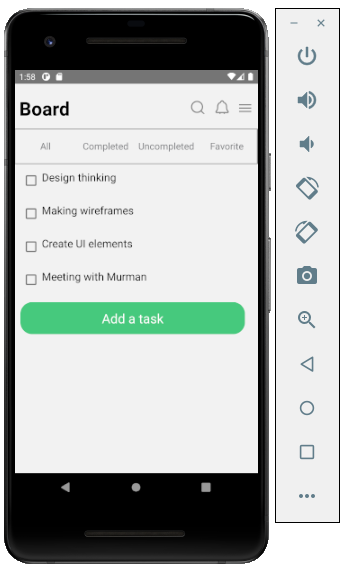
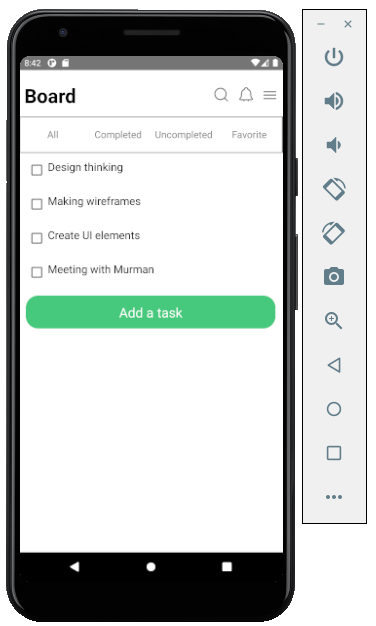
add datepicker

diff --git a/src/views/Task/Task.js b/src/views/Task/Task.js
@@ -1,13 +1,15 @@
-import React from 'react';
+import React, { useState } from 'react';
 import { Text, View, ScrollView, TouchableOpacity, Button } from 'react-native';
 import { Subheading, TextInput } from 'react-native-paper';
-//import DateTimePicker from '@react-native-community/datetimepicker';
 import Ionicons from 'react-native-vector-icons/Ionicons';
 import styles from '../../styles/styles';
 import useTask from './hooks/useTask';
+import DateTimePickerModal from "react-native-modal-datetime-picker";
+import DropDownList from '../../components/DropDownList';
 
 const Task = ({navigation}) => {
   const { onCreateTask, inputs} = useTask(navigation);
+  const [deadLine, setDeadLine] = useState(new Date().toISOString().substring(0, 10))
   const backToBoard = () => {
     navigation.navigate('BoardScreen');
   }
@@ -15,50 +17,87 @@ const Task = ({navigation}) => {
     onCreateTask();
   }
 
+  const [isDatePickerVisible, setDatePickerVisibility] = useState(false);
+
+  const showDatePicker = () => {
+    setDatePickerVisibility(true);
+  };
+
+  const hideDatePicker = () => {
+    setDatePickerVisibility(false);
+  };
+
+  const handleConfirm = (date) => {
+    const dateDeadLine = date.toISOString().substring(0, 10);
+    console.warn("A date has been picked: ", dateDeadLine);
+    setDeadLine(dateDeadLine);
+    hideDatePicker();
+  };
+
+  const onPressDeadLine = () => {
+    console.log('onPressDeadLine');
+    setDatePickerVisibility(true);
+  }
+
+  const propsDeadLine = {
+    onPress: onPressDeadLine,
+    defaultText: deadLine
+  }
+
   return (
-    <ScrollView>
-    <View style={[styles.navBar]}>
-      <View style={[styles.p5]}>
-        <TouchableOpacity onPress={backToBoard}>
-          <Ionicons name='ios-chevron-back-outline' size={30} color='gray' />
-        </TouchableOpacity>
+    <>
+    <ScrollView style={[styles.bgWhite, styles.p5, styles.m5]}>
+      <View style={[styles.navBar]}>
+        <View style={[styles.p5]}>
+          <TouchableOpacity onPress={backToBoard}>
+            <Ionicons name='ios-chevron-back-outline' size={30} color='gray' />
+          </TouchableOpacity>
+        </View>
+        <View style={[styles.container]}>
+          <Text style={[styles.title]}> Add task </Text>
+        </View>
       </View>
-      <View style={[styles.container]}>
-        <Text style={[styles.title]}> Add task </Text>
-      </View>
-    </View>
-    <View style={[styles.p5, styles.m5]}>
-      <View>
-        <Subheading>Title </Subheading>
-        <TextInput {...inputs.title}/>
-      </View>
-      <View>
-        <Subheading>Deadline </Subheading>
-        <TextInput {...inputs.title}/>
-      </View>
-      <View style={[styles.horizontalSpace, styles.pv4]}>
+      <View style={[styles.p5, styles.m5]}>
         <View>
-          <Subheading>Start Time </Subheading>
+          <Subheading>Title </Subheading>
           <TextInput {...inputs.title}/>
         </View>
         <View>
-          <Subheading>End Time </Subheading>
+          <Subheading>Deadline </Subheading>
+          <View>
+            <DropDownList {...propsDeadLine} />
+            <DateTimePickerModal
+              isVisible={isDatePickerVisible}
+              mode='date'
+              onConfirm={handleConfirm}
+              onCancel={hideDatePicker}
+            />
+          </View>
+        </View>
+        <View style={[styles.horizontalSpace, styles.pv4]}>
+          <View>
+            <Subheading>Start Time </Subheading>
+            <TextInput {...inputs.title}/>
+          </View>
+          <View>
+            <Subheading>End Time </Subheading>
+            <TextInput {...inputs.title}/>
+          </View>
+        </View>
+        <View>
+          <Subheading>Remind </Subheading>
+          <TextInput {...inputs.title}/>
+        </View>
+        <View>
+          <Subheading>Repeat </Subheading>
           <TextInput {...inputs.title}/>
         </View>
       </View>
-      <View>
-        <Subheading>Remind </Subheading>
-        <TextInput {...inputs.title}/>
-      </View>
-      <View>
-        <Subheading>Repeat </Subheading>
-        <TextInput {...inputs.title}/>
-      </View>
-      <View>
-        <Button title='Create a Task' onPress={createTask} color='#46c97d' />
-      </View>
+    </ScrollView>
+    <View style={[styles.bgWhite, styles.p5, styles.m5]}>
+      <Button title='Create a Task' onPress={createTask} color='#46c97d' />
     </View>
-  </ScrollView>
+  </>
   )
 };
 

diff --git a/App.js b/App.js
@@ -1,12 +1,13 @@
 
 import 'react-native-gesture-handler';
 import React, {useEffect} from 'react';
-import { NavigationContainer } from '@react-navigation/native';
+import { NavigationContainer, DefaultTheme  } from '@react-navigation/native';
 import { createStackNavigator } from '@react-navigation/stack';
 import AsyncStorage from '@react-native-async-storage/async-storage';
 import { useDispatch } from 'react-redux';
 import Board from './src/views/Board/Board';
 import Task from './src/views/Task/Task';
+import { setBoardData } from './src/reducers/BoardReducer/BoardActions';
 
 const Stack = createStackNavigator();
 
@@ -29,10 +30,18 @@ const App = () => {
 
   useEffect(()=> {
     getDataStorage();
-  }, [])
+  }, []);
+
+  const theme = {
+    ...DefaultTheme,
+    colors: {
+      ...DefaultTheme.colors,
+      background: 'white'
+    },
+  };
 
   return (
-    <NavigationContainer>
+    <NavigationContainer theme={theme}>
       <Stack.Navigator headerMode='none' initialRouteName='Board'>
         <Stack.Screen name='BoardScreen' component={Board} />
         <Stack.Screen name='TaskScreen' component={Task} />

diff --git a/src/components/DropDownList.js b/src/components/DropDownList.js
@@ -1,0 +1,33 @@
+import React, {useState} from 'react';
+import PropTypes from 'prop-types';
+import { View, TouchableWithoutFeedback, Text, ScrollView, TouchableHighlight } from 'react-native';
+import AntDesign from 'react-native-vector-icons/AntDesign';
+import styles from '../styles/styles';
+
+const DropDownList = (props) => {
+  const { defaultText, onPress } = props;
+  const [showLocations, setShowLocations] = useState(false);
+
+  const onPressDropDown = () => {
+    setShowLocations(true);
+    onPress()
+  }
+  return (
+    <TouchableWithoutFeedback onPress={onPressDropDown}>
+      <View style={[styles.ViewDropDown]}>
+        <Text style={[styles.textSize16, styles.flex1]}>{defaultText}</Text>
+        <AntDesign name={showLocations ? 'caretup' : 'caretdown'} size={14} color={'gray'} />
+      </View>
+    </TouchableWithoutFeedback>
+  )
+}
+
+DropDownList.propTypes = {
+  defaultText: PropTypes.string
+};
+
+DropDownList.defaultProps = {
+  defaultText: 'Select',
+}
+
+export default DropDownList;

diff --git a/src/styles/styles.js b/src/styles/styles.js
@@ -30,6 +30,21 @@ const styles = StyleSheet.create({
     flexDirection: 'row',
     alignItems: 'center'
   },
+  bgWhite: {
+    backgroundColor: '#fff'
+  },
+  ViewDropDown: {
+    backgroundColor: '#f0f0f2',
+    borderWidth: 1,
+    borderColor: 'gray',
+    height: 58,
+    marginTop: 6,
+    paddingHorizontal: 14,
+    alignItems: 'center',
+    width: '100%',
+    flexDirection: 'row',
+    justifyContent: 'center'
+  },
   textSize16: {
     fontSize: 16
   },
@@ -84,7 +99,7 @@ const styles = StyleSheet.create({
     color: '#7f8083'
   },
   roundButton: {
-    width: 380,
+    width: 410,
     height: 54,
     justifyContent: 'center',
     alignItems: 'center',

diff --git a/src/views/Board/Board.js b/src/views/Board/Board.js
@@ -2,13 +2,14 @@ import React from 'react';
 import BoardContent from './BoardContent';
 import BoardTop from './BoardTop';
 import { View } from 'react-native';
+import styles from '../../styles/styles';
 
 const Board = ({navigation}) => {
   const props = {
     navigation
   }
   return (
-    <View>
+    <View style={[styles.bgWhite]}>
       <BoardTop {...props} />
       <BoardContent {...props}  />
     </View>

diff --git a/src/views/Board/BoardContent.js b/src/views/Board/BoardContent.js
@@ -31,7 +31,7 @@ const BoardContent = (props) => {
   ));
 
   return (
-    <View >
+    <View style={[styles.bgWhite]} >
       <View style={[styles.navBar, styles.borderPrimary, styles.pv4]}>
         <View style={[styles.containerCenter]}>
           <TouchableHighlight onPress={onChangeAll}>

diff --git a/README.md b/README.md
@@ -1,7 +1,6 @@
 # TODO Task App
-![alt text](https://github.com/rodrigomall/ReactNativeTodo/blob/main/src/assets/img/board-android.png?raw=true "Title")
+![alt text](https://github.com/rodrigomall/ReactNativeTodo/blob/main/src/assets/img/board-android.png?raw=true "Title")   ![alt text](https://github.com/rodrigomall/ReactNativeTodo/blob/main/src/assets/img/task-android.png?raw=true "Title")
 
-![alt text](https://github.com/rodrigomall/ReactNativeTodo/blob/main/src/assets/img/task-android.png?raw=true "Title")
 
 #Android
 1. yarn install
